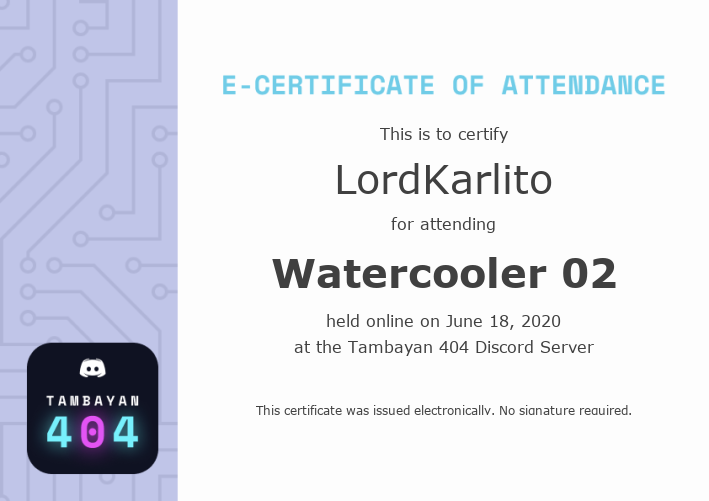
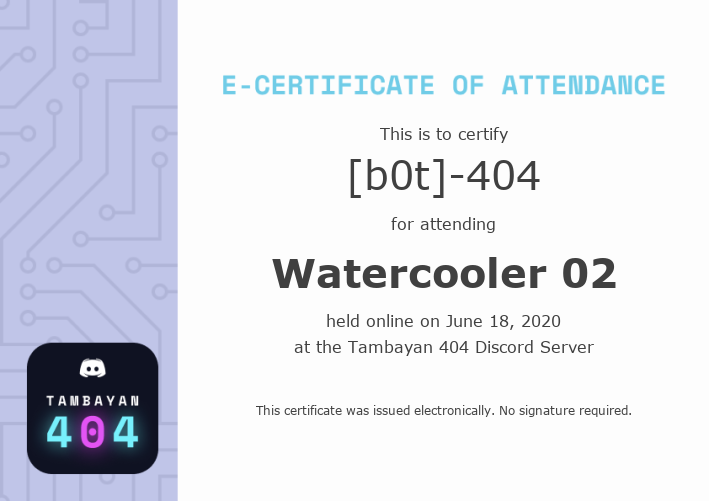
increased disclaimer canvas size

Changed region(s): [[0.4654, 0.2994, 0.7757, 0.3892]]

diff --git a/bot.py b/bot.py
@@ -18,7 +18,7 @@ def cert_gen(params):
         4: [447, 63, "assets/Verdana_Bold.ttf", 40, params[2], 220, 252],
         5: [447, 34, "assets/Verdana.ttf", 16, "held online on {}".format(params[1]), 220, 305],
         6: [447, 28, "assets/Verdana.ttf", 16, "at the Tambayan 404 Discord Server", 220, 331],
-        7: [447, 20, "assets/Verdana.ttf", 12, "This certificate was issued electronically. No signature required.", 220, 395]
+        7: [447, 30, "assets/Verdana.ttf", 12, "This certificate was issued electronically. No signature required.", 220, 395]
     }
 
     # Create an image object
